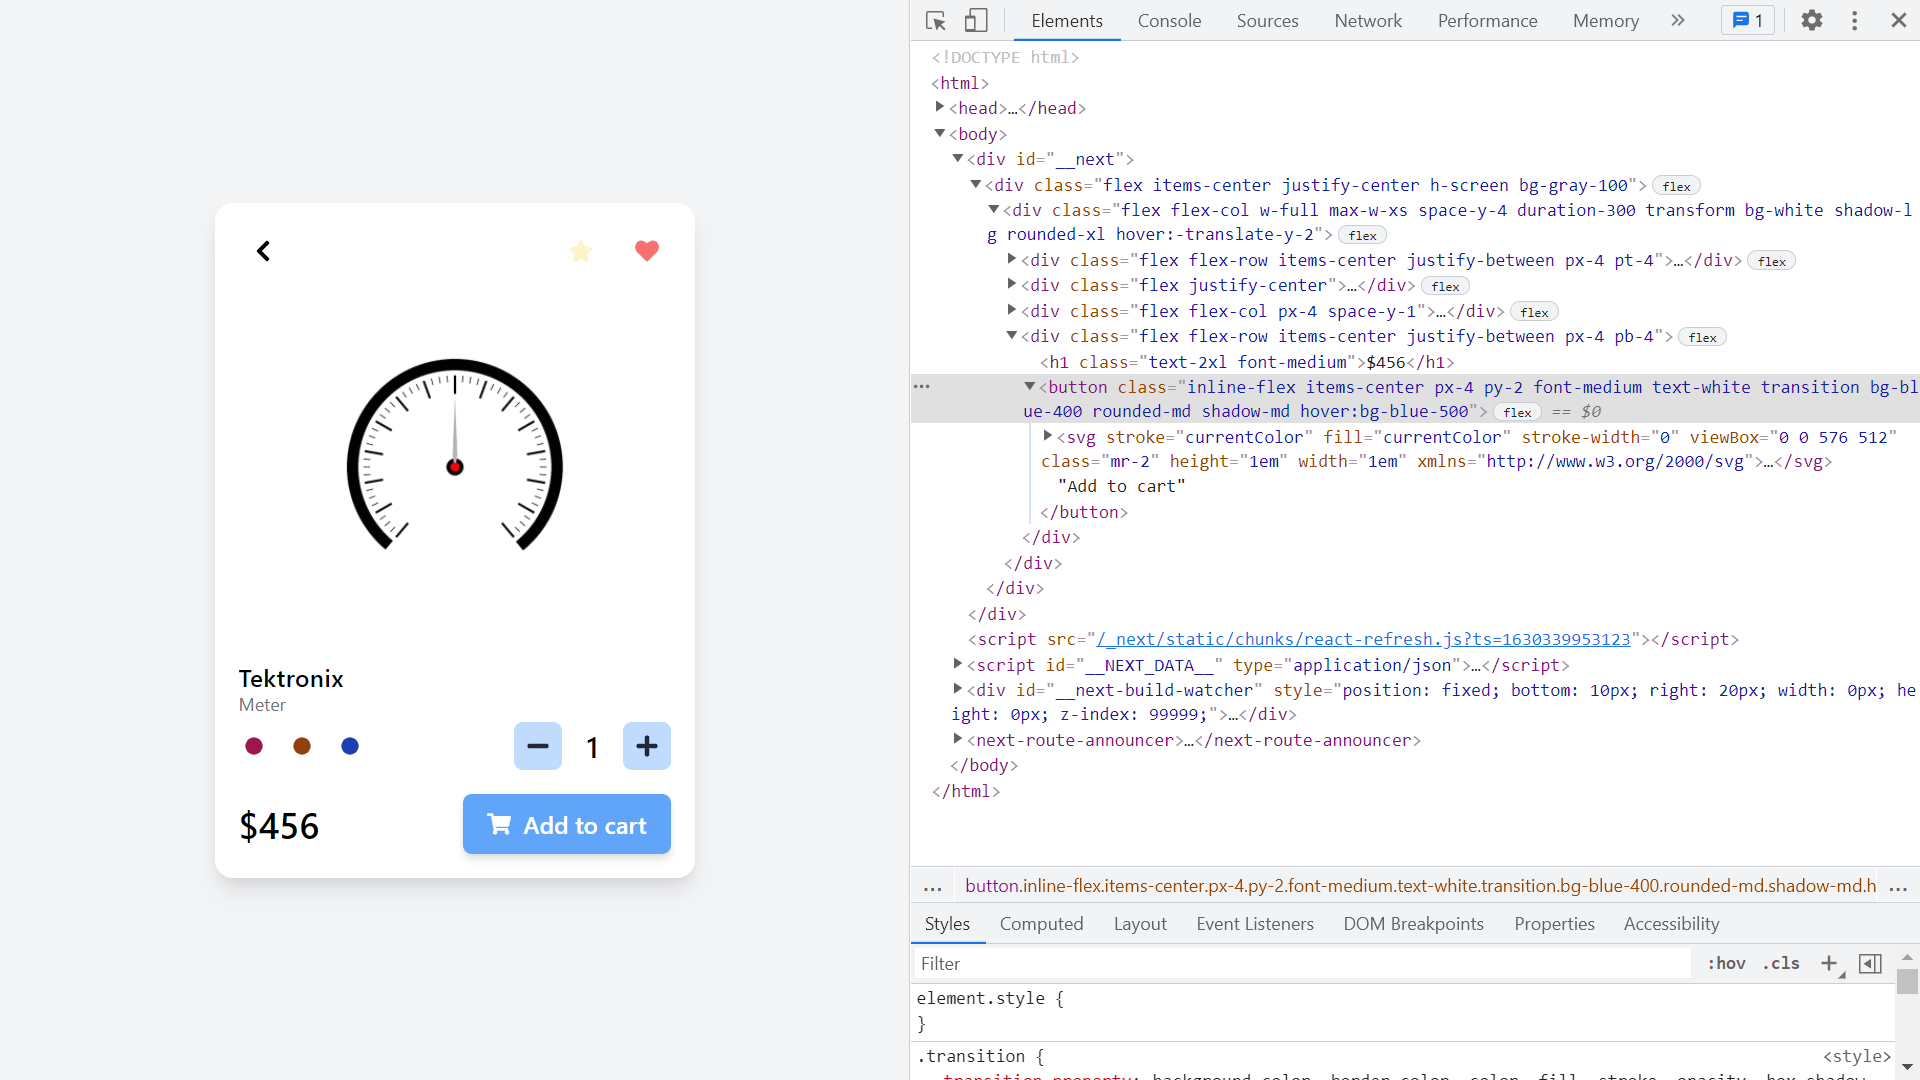
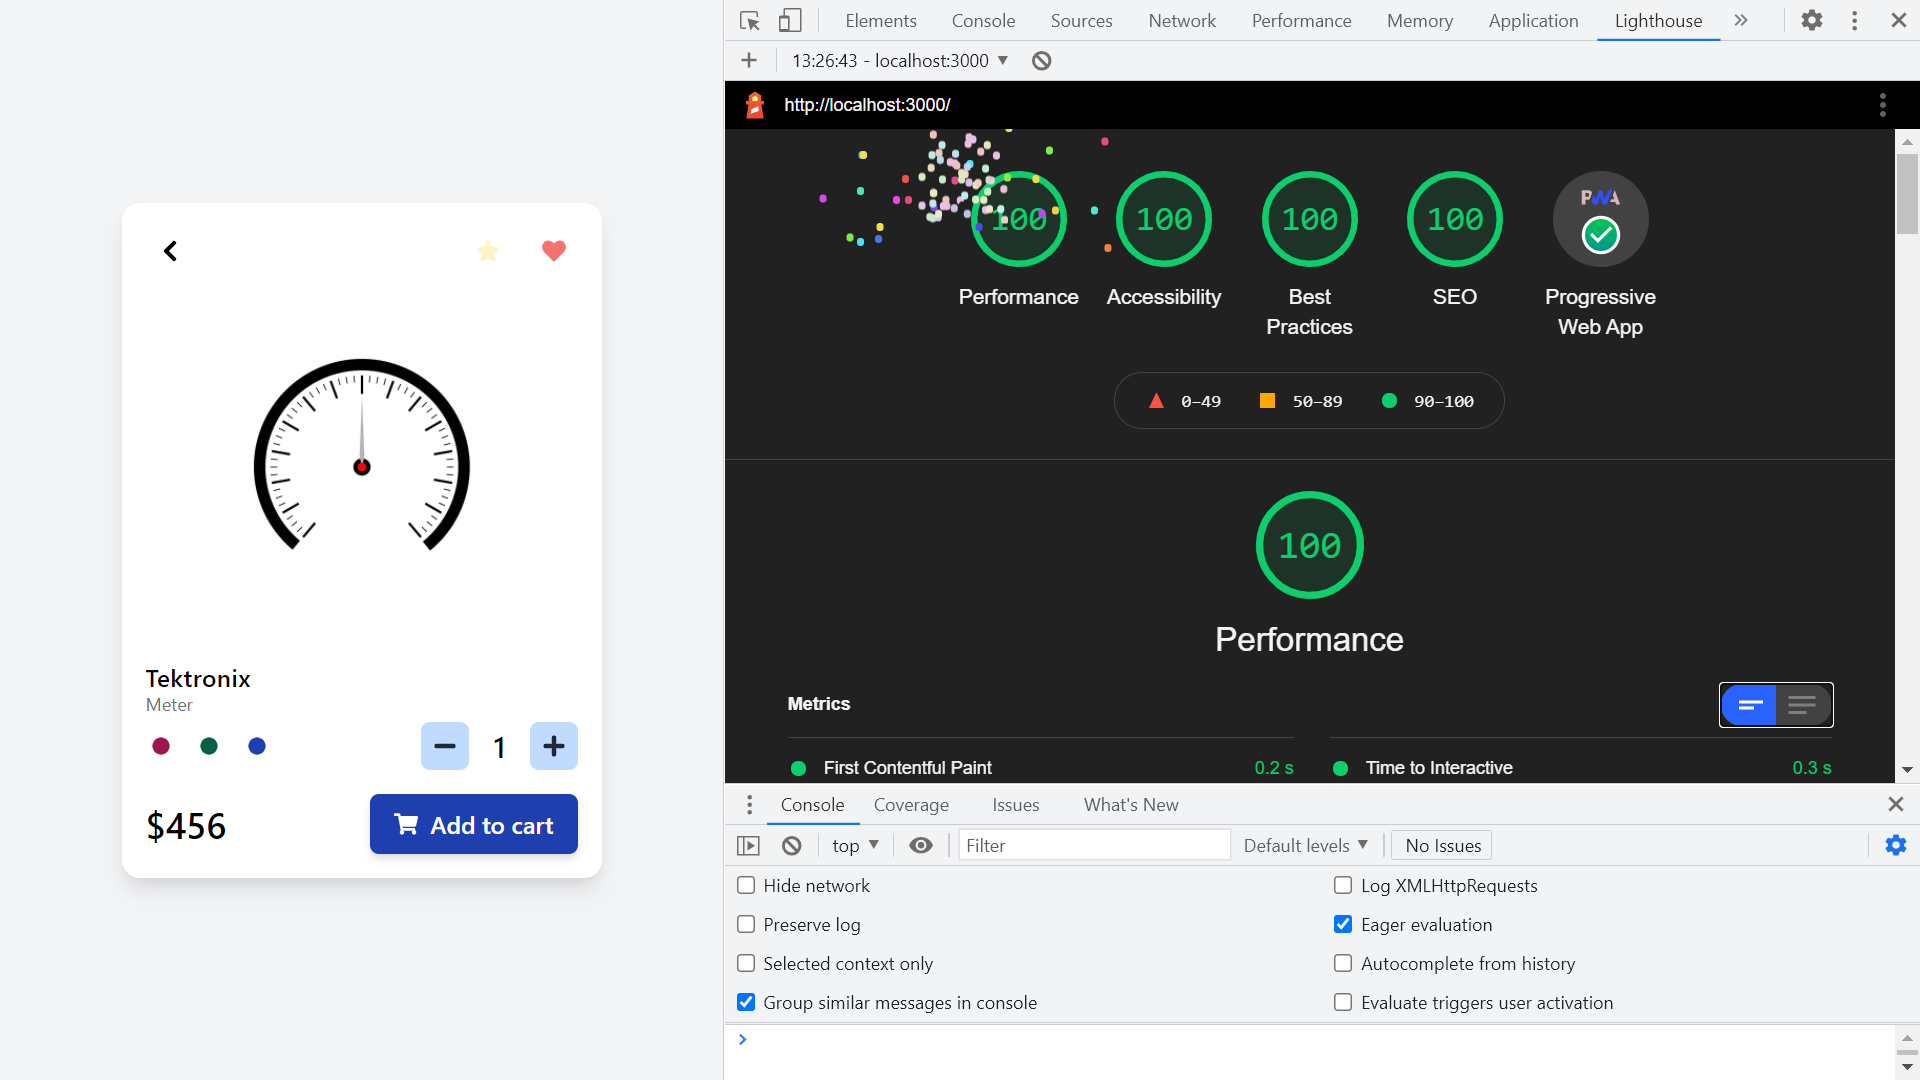
docs: user info. & screenshot updated

diff --git a/README.md b/README.md
@@ -1,6 +1,6 @@
 # :zap: Next Tailwind Card
 
-* A Next.js + Tailwind app to create a reusable card component with React-icons
+* A PWA Next/Tailwind template app with card component and perfect Lighthouse score
 * **Note:** to open web links in a new window use: _ctrl+click on link_
 
 ![GitHub repo size](https://img.shields.io/github/repo-size/AndrewJBateman/next-tailwind-card?style=plastic)
@@ -26,6 +26,9 @@
 
 * Next.js used for frontend is for server-rendered react apps. It has automatic code splitting, simple page-based routing, built-in CSS support and hot reloading. Every component file in the pages folder is treated as a page
 * Tailwind CSS added to Next.js as part of [Next.js example app](https://tailwindcss.com/docs/guides/nextjs)
+* Progressive Web App (PWA) enabled. Latest Next v11 used includes server code and makes adding PWA much easier
+* [Custom Document](https://nextjs.org/docs/advanced-features/custom-document) `pages/_document` used to add to app's <html> and <body> tags
+
 
 ## :camera: Screenshots
 
@@ -39,6 +42,7 @@
 * [Tailwind v2](https://tailwindcss.com/) utility-first CSS framework
 * [PostCSS](https://postcss.org/) tool for transforming CSS with JavaScript
 * [pngTree](https://pngtree.com/) downloadable images, png etc.
+* [pwa-asset-generator v4](https://www.npmjs.com/package/pwa-asset-generator) Automated PWA asset generation and image declaration. Creates icons and JSON array for PWA manifest.json file
 
 ## :floppy_disk: Setup
 
@@ -48,21 +52,57 @@
 
 ## :computer: Code Examples
 
-* tba
+* `pages/_document` HTML render used to add custom HTML to existing Next document page
 
-```tsx
-
+```javascript
+render() {
+	return (
+		<Html lang="en">
+			<Head>
+				<meta
+					name="description"
+					content="Build a Next.js PWA with 100% lighthouse score"
+				></meta>
+				<meta
+					name="viewport"
+					content="width=device-width, initial-scale=1.0"
+				/>
+				<meta name="theme-color" content="#0D47A1" />
+				<link rel="manifest" href="/manifest.json" />
+				<link
+					href="/favicon-16x16.png"
+					rel="icon"
+					type="image/png"
+					sizes="16x16"
+				/>
+				<link
+					href="/favicon-32x32.png"
+					rel="icon"
+					type="image/png"
+					sizes="32x32"
+				/>
+				<link rel="apple-touch-icon" href="/apple-icon.png"></link>
+			</Head>
+			<body>
+				<Main />
+				<NextScript />
+			</body>
+		</Html>
+	);
+}
 ```
 
 ## :clipboard: Status & To-Do List
 
 * Status: Working.
-* To-Do: Add PWA, _document, 100% Lighthouse, deploy to github pages
+* To-Do: Deploy
 
 ## :clap: Inspiration
 
 * [Install Tailwind CSS with Next.js](https://tailwindcss.com/docs/guides/nextjs)
+* [Next.js example app](https://tailwindcss.com/docs/guides/nextjs)
 * [Not Science Lab: Product Card Tutorial (Next.js, Tailwind CSS and react-icons)](https://www.youtube.com/watch?v=E11eRGweC3M)
+* [Convert your website into a PWA in 8 simple steps](https://milindsoorya.site/blog/convert-your-website-into-a-pwa-in-8-simple-steps-next-js-pwa-series-part-2#step-6-edit-your-_documentjs-file)
 
 ## :file_folder: License
 
